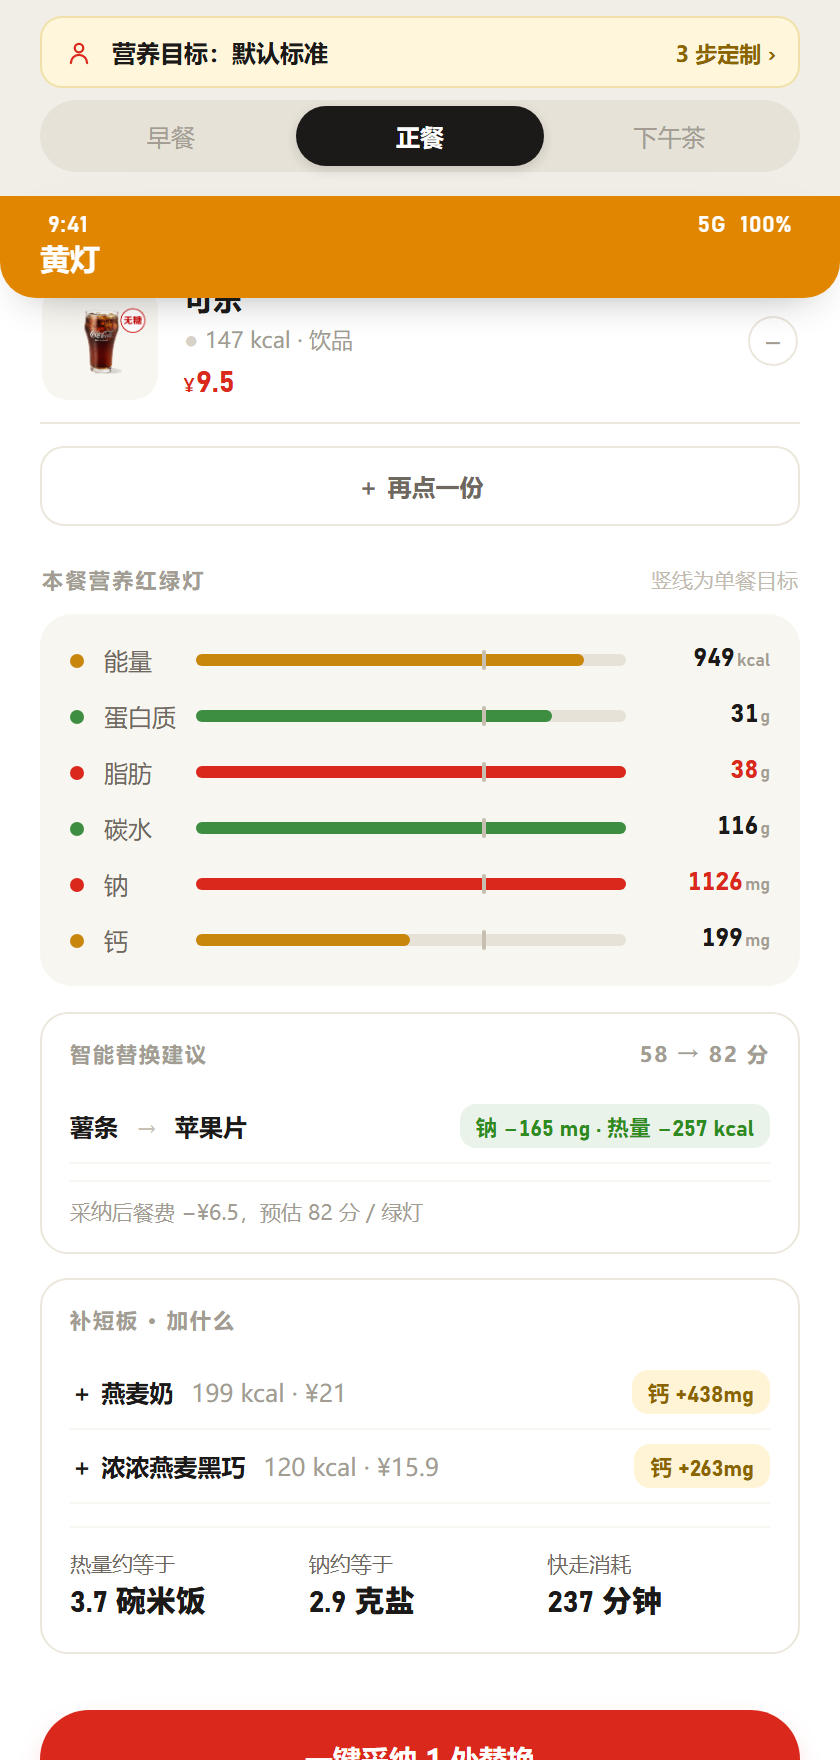
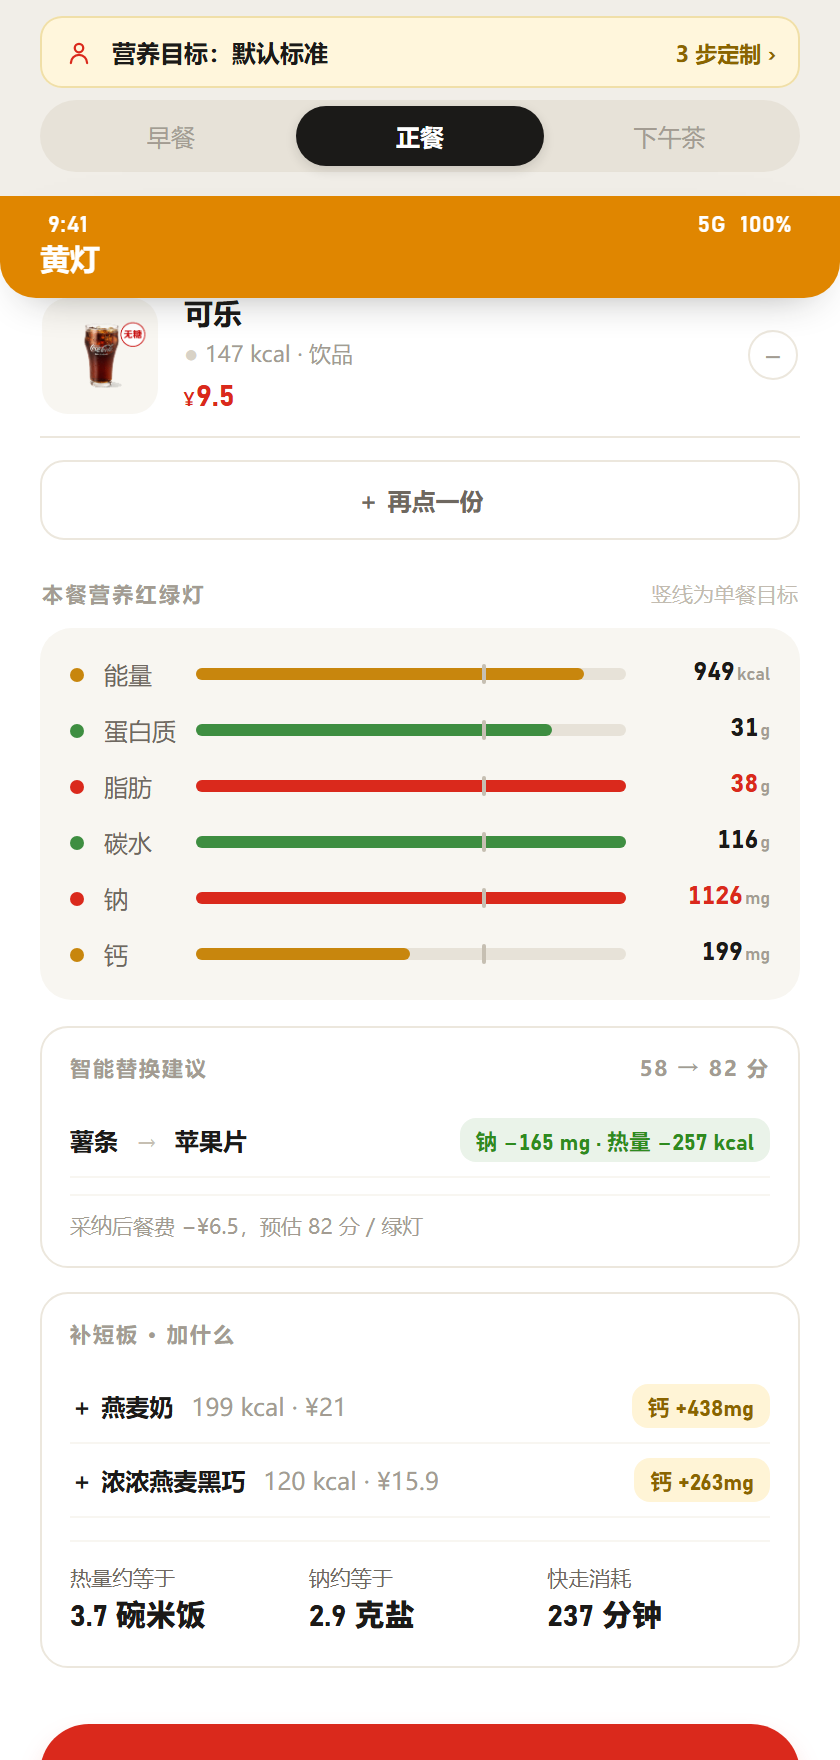
修展示台留白与三处遗留问题
- 展示台加宽到 430px；新增「今日已吃」实时面板（餐次/热量/钠 + 进度条），
  与右侧卡片等高，中段不再空。align-items 改 stretch 让两栏拉齐
- 修 daystrip 溢出：原来三列 justify-content:space-between + 中文不换行，
  钠数字变长后「本餐还可吃」被裁掉。改为两列 + 进度条，数字再长也不挤掉文案
- 品牌标换成真实金色拱门（双拱 M 形，官方比例），hero 白色、展示台黄色
- 清空 data/day_log.json 里累积的测试记录（已被 gitignore，不入库）
- 重新截图；自检 32 项通过

diff --git a/web/index.html b/web/index.html
@@ -20,29 +20,41 @@
     color:var(--ink);-webkit-font-smoothing:antialiased;
     display:flex;flex-direction:column;align-items:center;gap:20px;
   }
-  .stage{display:flex;gap:44px;align-items:flex-start;flex-wrap:wrap;justify-content:center;width:100%;}
+  .stage{display:flex;gap:52px;align-items:stretch;flex-wrap:wrap;justify-content:center;width:100%;}
   /* ===== 展示台：只在电脑（宽屏）显示，把两侧留白变成信息位 ===== */
-  .board{width:392px;flex:0 0 auto;padding-top:6px;}
-  .board .brand{display:flex;align-items:center;gap:9px;margin-bottom:14px;}
-  .board .brand svg{width:26px;height:26px;flex:0 0 auto;}
-  .board .brand span{font-size:13px;font-weight:700;color:#8A6400;letter-spacing:.6px;}
-  .board h2{font-size:28px;font-weight:800;line-height:1.24;letter-spacing:-.4px;}
+  .board{width:430px;flex:0 0 auto;padding-top:6px;display:flex;flex-direction:column;}
+  .board .brand{display:flex;align-items:center;gap:10px;margin-bottom:16px;}
+  .board .brand span{font-size:12px;font-weight:700;color:#8A6400;letter-spacing:.5px;}
+  .board h2{font-size:29px;font-weight:800;line-height:1.26;letter-spacing:-.5px;}
   .board h2 em{font-style:normal;color:var(--red);}
-  .board .lede{font-size:13.5px;line-height:1.85;color:var(--ink2);margin-top:12px;}
+  .board .lede{font-size:13.5px;line-height:1.9;color:var(--ink2);margin-top:13px;}
   .board .lede b{color:var(--ink);font-weight:700;}
-  .board .kicker{margin-top:22px;font-size:11px;font-weight:700;letter-spacing:1.6px;color:var(--ink3);}
-  .steps{display:flex;align-items:stretch;gap:0;margin-top:11px;}
-  .steps .s{flex:1;background:#fff;border:1px solid var(--line);border-radius:13px;padding:11px 9px 12px;text-align:center;}
-  .steps .s .n{font-family:var(--num);font-size:19px;font-weight:800;color:var(--red);line-height:1;}
-  .steps .s .t{font-size:12px;font-weight:700;margin-top:6px;}
+  .board .kicker{margin-top:24px;font-size:11px;font-weight:700;letter-spacing:1.6px;color:var(--ink3);}
+  .steps{display:flex;align-items:stretch;gap:0;margin-top:12px;}
+  .steps .s{flex:1;background:#fff;border:1px solid var(--line);border-radius:13px;padding:12px 8px 13px;text-align:center;}
+  .steps .s .n{font-family:var(--num);font-size:20px;font-weight:800;color:var(--red);line-height:1;}
+  .steps .s .t{font-size:12px;font-weight:700;margin-top:7px;}
   .steps .s .d{font-size:10.5px;color:var(--ink3);margin-top:3px;line-height:1.45;}
   .steps .a{flex:0 0 16px;display:flex;align-items:center;justify-content:center;color:#C6BFB2;font-size:13px;}
-  .diff{margin-top:11px;display:flex;flex-direction:column;gap:8px;}
-  .diff .d{display:flex;gap:9px;font-size:12.5px;line-height:1.7;color:var(--ink2);}
+  .diff{margin-top:12px;display:flex;flex-direction:column;gap:9px;}
+  .diff .d{display:flex;gap:9px;font-size:12.5px;line-height:1.72;color:var(--ink2);}
   .diff .d i{flex:0 0 auto;width:16px;height:16px;margin-top:3px;border-radius:50%;background:#FFF4D6;
              color:#8A6400;font-style:normal;font-size:10px;font-weight:800;display:flex;align-items:center;justify-content:center;}
   .diff .d b{color:var(--ink);font-weight:700;}
-  .board .foot{margin-top:20px;padding-top:13px;border-top:1px solid #E2DCD0;font-size:11.5px;line-height:1.8;color:var(--ink3);}
+  /* 今日已吃：把这块实时数据放到展示台，右侧卡片与左侧等高 */
+  .today{margin-top:24px;border:1px solid var(--line);border-radius:14px;background:#fff;padding:14px 15px 15px;}
+  .today .th{font-size:11px;font-weight:700;letter-spacing:1.6px;color:var(--ink3);display:flex;justify-content:space-between;align-items:baseline;}
+  .today .th em{font-style:normal;font-weight:600;letter-spacing:0;color:#C2BBB0;font-size:10.5px;}
+  .today .grid{display:grid;grid-template-columns:1fr 1fr 1fr;gap:10px;margin-top:12px;}
+  .today .cell{text-align:left;}
+  .today .cell b{display:block;font-family:var(--num);font-size:21px;font-weight:800;line-height:1.1;font-variant-numeric:tabular-nums;}
+  .today .cell span{font-size:11px;color:var(--ink3);}
+  .today .cell.warn b{color:var(--red);}
+  .today .cell.ok b{color:var(--green);}
+  .today .meter{margin-top:13px;height:5px;border-radius:3px;background:#ECE7DD;overflow:hidden;}
+  .today .meter i{display:block;height:100%;border-radius:3px;background:var(--green);width:0;transition:width .6s;}
+  .today .meter i.warn{background:var(--red);}
+  .board .foot{margin-top:auto;padding-top:16px;border-top:1px solid #E2DCD0;font-size:11.5px;line-height:1.85;color:var(--ink3);}
   .board .foot b{color:var(--ink2);font-weight:600;}
   .scr{
     width:340px;background:#fff;border-radius:36px;overflow:hidden;
@@ -69,7 +81,12 @@
   .content{padding:14px 20px 16px;}
 
   .titlerow{display:flex;align-items:center;gap:9px;margin:9px 0 13px;}
-  .titlerow .mk{width:20px;height:20px;flex:0 0 auto;}
+  /* 麦当劳金色拱门：两个并列半圆，M 形，官方比例宽高约 1.62:1 */
+  .arches{display:block;flex:0 0 auto;}
+  .titlerow .arches{width:26px;height:17px;}
+  .board .brand .arches{width:30px;height:19px;}
+  /* 真实门店/品牌图位 */
+  .brandimg{display:block;border-radius:8px;object-fit:contain;}
   .titlerow h1{font-size:20px;font-weight:800;line-height:1.1;color:#fff;}
   .badge{margin-left:auto;font-size:9.5px;font-weight:700;padding:3px 8px;border-radius:8px;background:rgba(255,255,255,.24);color:#fff;}
 
@@ -109,7 +126,13 @@
   .hinfo .st{font-size:19px;font-weight:800;margin-bottom:4px;}
   .hinfo .ds{font-size:11.5px;color:rgba(255,255,255,.88);line-height:1.5;margin-bottom:9px;}
   .hinfo .warn{display:inline-block;font-size:10.5px;font-weight:700;background:rgba(255,255,255,.22);padding:4px 10px;border-radius:8px;font-variant-numeric:tabular-nums;}
-  .daystrip{margin-top:13px;padding-top:11px;border-top:1px solid rgba(255,255,255,.24);font-size:10.5px;color:rgba(255,255,255,.9);display:flex;justify-content:space-between;gap:8px;font-variant-numeric:tabular-nums;}
+  .daystrip{margin-top:13px;padding-top:11px;border-top:1px solid rgba(255,255,255,.24);
+            font-size:10.5px;color:rgba(255,255,255,.9);display:flex;align-items:center;justify-content:space-between;
+            gap:10px;font-variant-numeric:tabular-nums;}
+  .daystrip span{white-space:nowrap;overflow:hidden;text-overflow:ellipsis;}
+  .daystrip .bar{flex:1 1 auto;min-width:26px;height:4px;border-radius:2px;background:rgba(255,255,255,.28);position:relative;}
+  .daystrip .bar i{position:absolute;inset:0 auto 0 0;border-radius:2px;background:#fff;width:0;transition:width .5s;}
+  .daystrip .bad{color:#FFE9A8;font-weight:700;}
 
   .seg{display:flex;background:#E7E2D8;border-radius:22px;padding:3px;margin-bottom:12px;}
   .seg span{flex:1;text-align:center;font-size:12px;font-weight:500;padding:7px 0;border-radius:19px;color:var(--ink3);transition:.25s;cursor:pointer;}
@@ -229,8 +252,8 @@
 
   <aside class="board">
     <div class="brand">
-      <svg viewBox="0 0 24 24" fill="none"><path d="M3 19 C3 9, 8 5, 12 5 C16 5, 21 9, 21 19" stroke="#FFC72C" stroke-width="3.4" stroke-linecap="round"/></svg>
-      <span>基于麦当劳官方 MCP</span>
+      <svg class="arches" viewBox="0 0 100 62" aria-label="麦当劳金色拱门"><path d="M7 62 V34 C7 15 16 5 26 5 C34 5 39 11 41 22 L50 62 L59 22 C61 11 66 5 74 5 C84 5 93 15 93 34 V62" fill="none" stroke="#FFC72C" stroke-width="11" stroke-linecap="round" stroke-linejoin="round"/></svg>
+      <span>麦当劳官方 MCP · 实时数据</span>
     </div>
     <h2>点餐那一刻，<br>帮你判断<em>这一顿行不行</em>。</h2>
     <p class="lede">
@@ -262,12 +285,21 @@
         替换方案会计算券损失。</span></div>
     </div>
 
+    <div class="today">
+      <div class="th"><span>今日已吃 · 实时</span><em>只存本机</em></div>
+      <div class="grid">
+        <div class="cell"><b id="bdMeals">0</b><span>餐次</span></div>
+        <div class="cell"><b id="bdKcal">0</b><span>kcal 热量</span></div>
+        <div class="cell" id="bdNaCell"><b id="bdNa">0</b><span>mg 钠 / 2000</span></div>
+      </div>
+      <div class="meter"><i id="bdNaBar"></i></div>
+    </div>
+
     <p class="foot">
       数据来自麦当劳官方 MCP 实时接口（<b>mcp.mcd.cn</b>），断网自动降级到本地快照。<br>
       只谈麦当劳自己的餐品，不做任何跨品牌对比。输出仅供参考，不构成医疗或营养建议。
     </p>
   </aside>
-
   <div class="segwrap" id="segwrap">
     <div class="prow" id="profilebar">
       <span class="pico"><svg width="15" height="15" viewBox="0 0 24 24" fill="none" stroke="#DA291C" stroke-width="1.8" stroke-linecap="round"><circle cx="12" cy="8" r="3.4"/><path d="M5.5 20a6.5 6.5 0 0 1 13 0"/></svg></span>
@@ -283,7 +315,7 @@
     <div class="hero" id="hero">
       <div class="statusbar"><span>9:41</span><span>5G&nbsp;&nbsp;100%</span></div>
       <div class="titlerow">
-        <svg class="mk" viewBox="0 0 24 24" fill="none"><path d="M3 19 C3 9, 8 5, 12 5 C16 5, 21 9, 21 19" stroke="#fff" stroke-width="3.4" stroke-linecap="round"/></svg>
+        <svg class="arches" viewBox="0 0 100 62" aria-label="麦当劳金色拱门"><path d="M7 62 V34 C7 15 16 5 26 5 C34 5 39 11 41 22 L50 62 L59 22 C61 11 66 5 74 5 C84 5 93 15 93 34 V62" fill="none" stroke="#fff" stroke-width="11" stroke-linecap="round" stroke-linejoin="round"/></svg>
         <h1>麦麦营养红绿灯</h1>
         <span class="badge" id="srcbadge">连接中…</span>
       </div>
@@ -422,11 +454,34 @@ function renderHero(){
 
 function renderDay(){
   const e = state.evaluation, d = e.day;
-  if (!d || !d.mealCount) { $('daystrip').innerHTML = '<span>今日尚未记录其他餐次</span><span>记录后自动累计</span>'; return; }
-  const sodiumTarget = (d.targets && d.targets.sodium) || 2000;
+  const target = (d && d.targets && d.targets.sodium) || 2000;
+  const eaten = Math.round((d && d.eaten && d.eaten.sodium) || 0);
+  const kcal = Math.round((d && d.eaten && d.eaten.kcal) || 0);
+  const meals = (d && d.mealCount) || 0;
+
+  // 展示台的「今日已吃」面板（宽屏才有，窄屏元素不存在时静默跳过）
+  if ($('bdMeals')) {
+    $('bdMeals').textContent = meals;
+    $('bdKcal').textContent = kcal;
+    $('bdNa').textContent = eaten;
+    const over = eaten > target;
+    $('bdNaCell').className = 'cell ' + (over ? 'warn' : eaten > target * .7 ? '' : 'ok');
+    const bar = $('bdNaBar');
+    bar.style.width = Math.min(100, eaten / target * 100).toFixed(1) + '%';
+    bar.className = over ? 'warn' : '';
+  }
+
+  if (!meals) {
+    $('daystrip').innerHTML = '<span>今日尚未记录其他餐次</span><span style="flex:0 0 auto">记录后自动累计</span>';
+    return;
+  }
   const left = Math.round((d.remaining && d.remaining.sodium) || 0);
+  const over = eaten > target;
+  // 三列改两列 + 进度条：数字再长也不会把文案挤掉
   $('daystrip').innerHTML =
-    `<span>今日已吃 ${d.mealCount} 餐</span><span>钠 ${Math.round(d.eaten.sodium)}/${sodiumTarget} mg</span><span>本餐还可吃 ${left} mg</span>`;
+    `<span>今日 ${meals} 餐 · 钠 ${eaten}/${target}</span>`
+    + `<span class="bar"><i style="width:${Math.min(100, eaten / target * 100).toFixed(1)}%"></i></span>`
+    + `<span class="${over ? 'bad' : ''}" style="flex:0 0 auto">${over ? '已超' + (eaten - target) : '还可吃 ' + left} mg</span>`;
 }
 
 /* ---------------- 餐盘 ---------------- */
